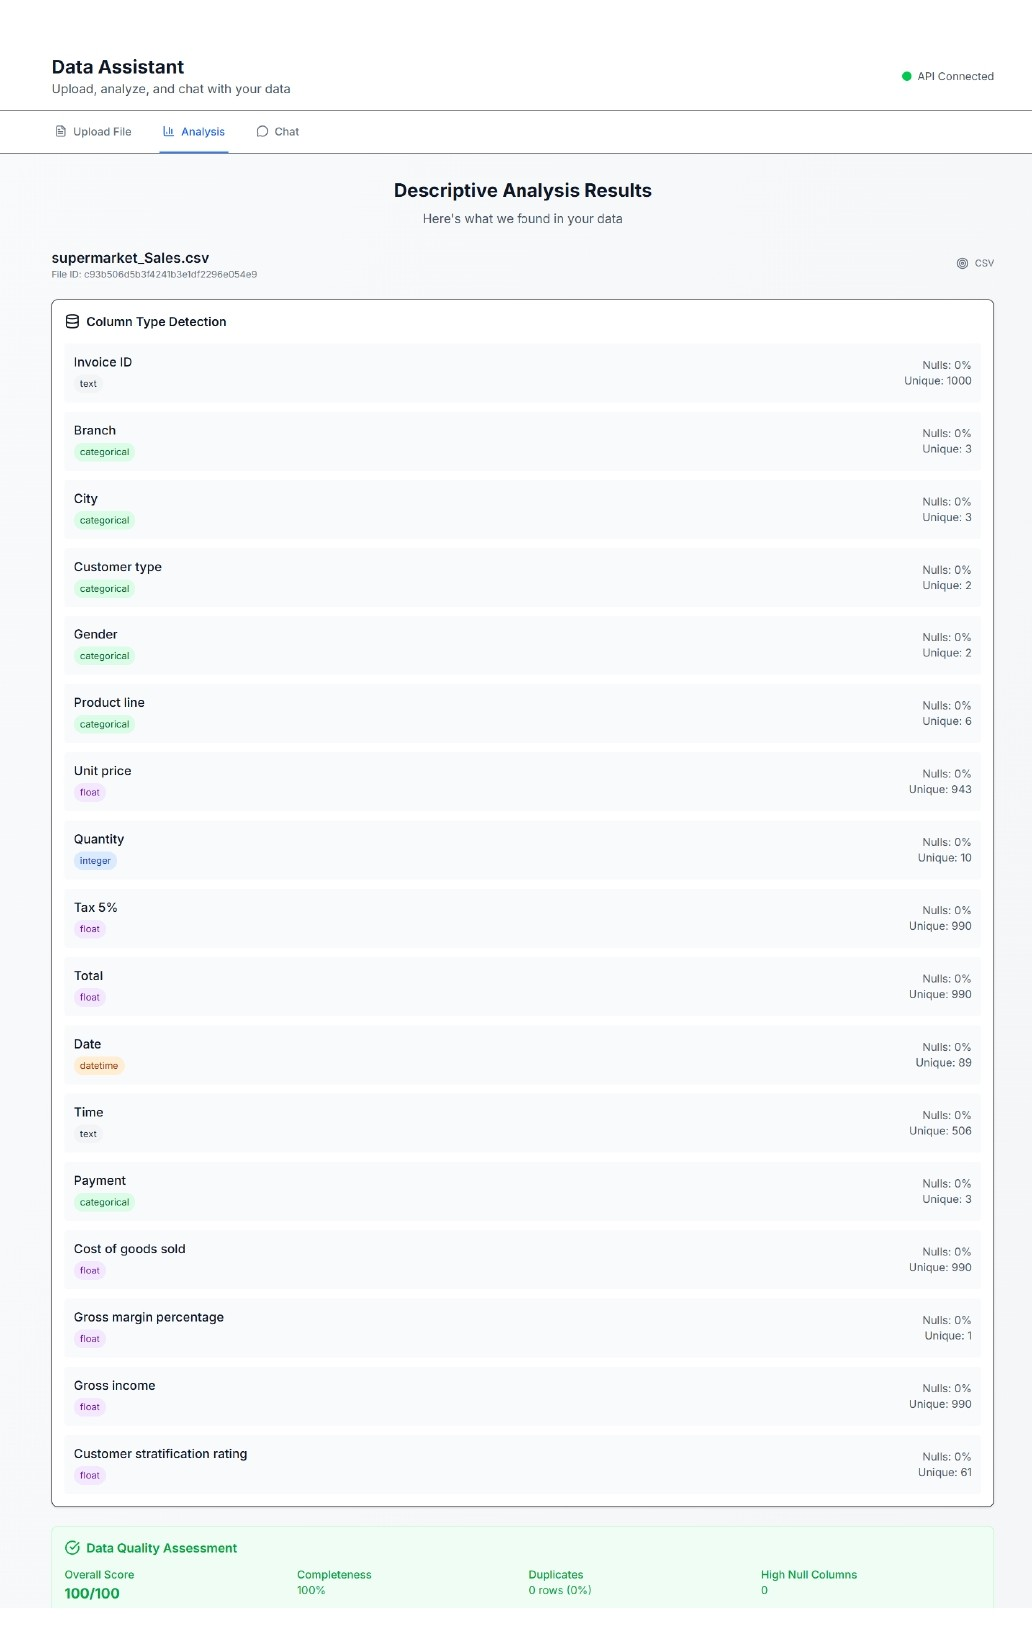
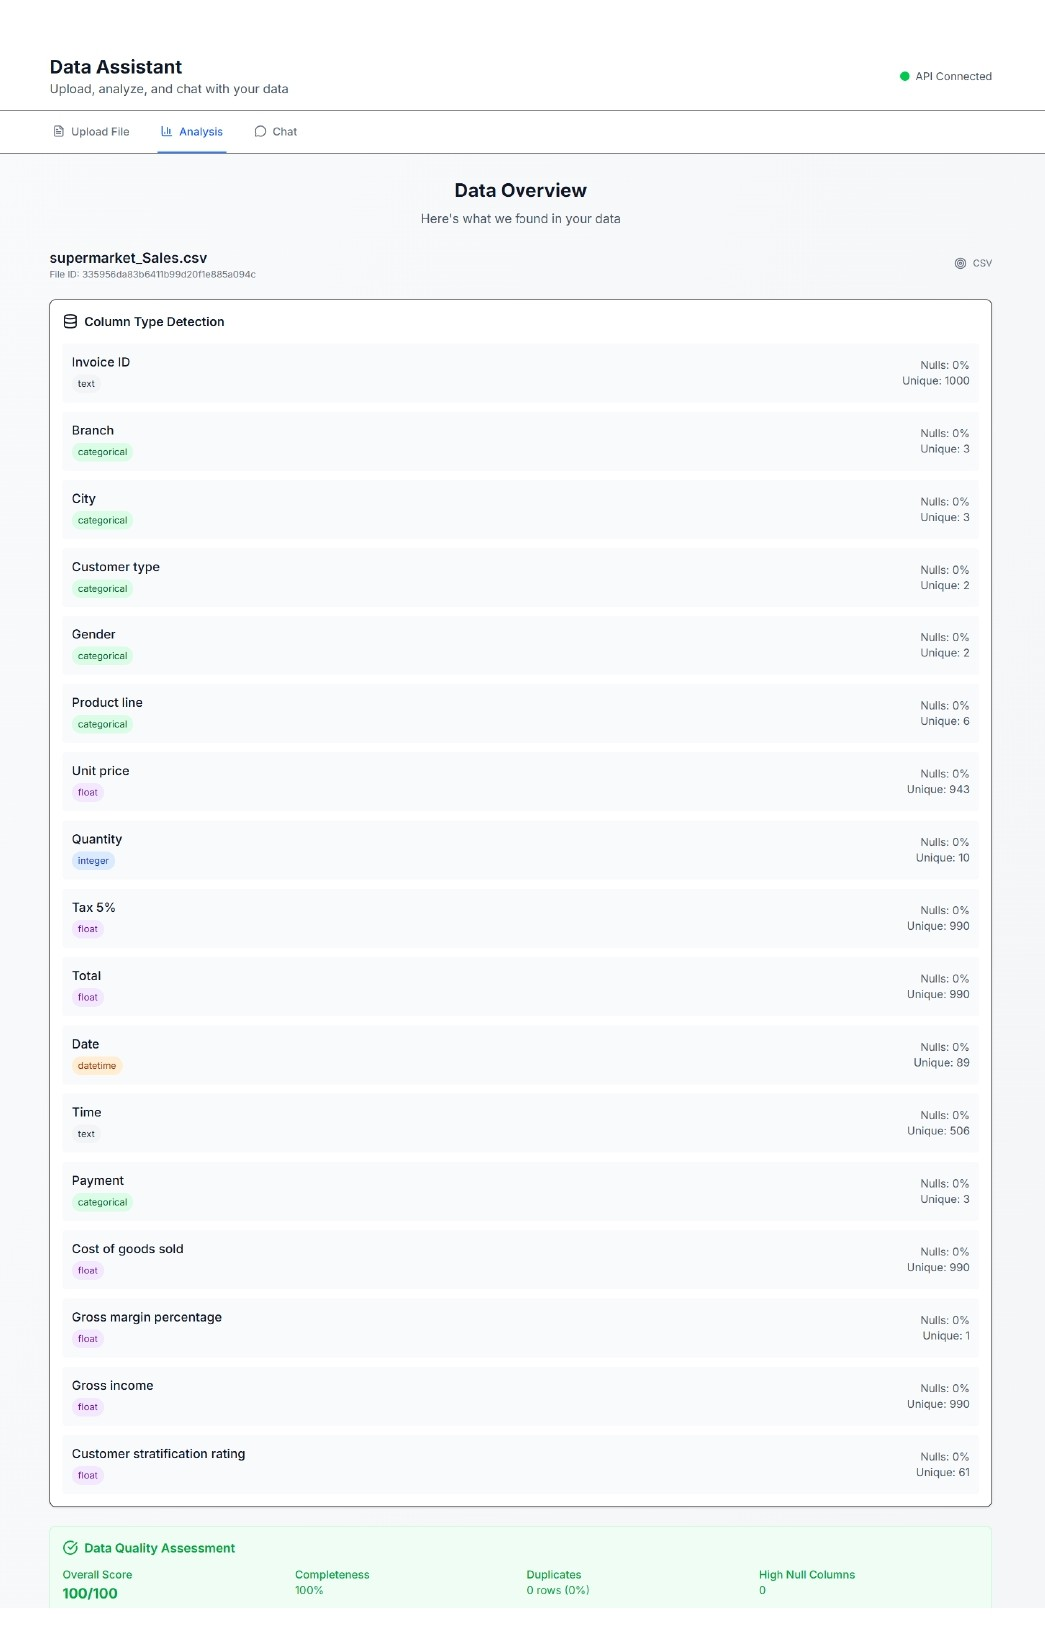
update image result

diff --git a/frontend/src/app/page.tsx b/frontend/src/app/page.tsx
@@ -100,7 +100,7 @@ export default function Home() {
             className="space-y-6"
           >
             <div className="text-center">
-              <h2 className="text-2xl font-bold text-gray-900 mb-2">Descriptive Analysis Results</h2>
+              <h2 className="text-2xl font-bold text-gray-900 mb-2">Data Overview</h2>
               <p className="text-gray-600">Here's what we found in your data</p>
             </div>
             <DataVisualization fileData={uploadedFile} />

diff --git a/README.md b/README.md
@@ -10,18 +10,19 @@ Upload a file → get **automatic summaries**, **data quality checks**, **chart 
 ## 🖼 Screenshots & Demo
 
 ### 🤖 AI Chat Assistant
+
 <div align="center">
   <img src="Result and Example_dataset/Result/chat-assistData.png" 
        alt="AI Chat Assistant Interface" 
        width="500">
 </div>
 
-### 📊 CSV Descriptive Results
+### 📊 CSV Data Overview
 
 <div align="center">
 
-| | |
-|:---:|:---:|
+|                                                                                                          |                                                                                                          |
+| :------------------------------------------------------------------------------------------------------: | :------------------------------------------------------------------------------------------------------: |
 | <img src="Result and Example_dataset/Result/descriptive-result-csv1.jpg" alt="CSV Result 1" width="400"> | <img src="Result and Example_dataset/Result/descriptive-result-csv2.jpg" alt="CSV Result 2" width="400"> |
 
 </div>
@@ -33,6 +34,7 @@ Upload a file → get **automatic summaries**, **data quality checks**, **chart 
 </div>
 
 ### 📁 Upload Interface
+
 <div align="center">
   <img src="Result and Example_dataset/Result/upload-data-page.png" 
        alt="Upload Data Interface" 
@@ -57,27 +59,32 @@ Upload a file → get **automatic summaries**, **data quality checks**, **chart 
 
 ## 🧠 Tech Stack & Roles
 
-- **Frontend**: **Next.js + Tailwind CSS** — UI for upload, summaries, charts, and chat  
-- **Charting**: **Recharts** — interactive charts from backend specs  
-- **Backend**: **FastAPI (Python)** — endpoints for upload, analysis, and chat  
-- **Tabular Data**: **Pandas + NumPy** — stats, null %, duplicates, dtypes  
-- **PDF**: **PyPDF2** — text & metadata extraction  
+- **Frontend**: **Next.js + Tailwind CSS** — UI for upload, summaries, charts, and chat
+- **Charting**: **Recharts** — interactive charts from backend specs
+- **Backend**: **FastAPI (Python)** — endpoints for upload, analysis, and chat
+- **Tabular Data**: **Pandas + NumPy** — stats, null %, duplicates, dtypes
+- **PDF**: **PyPDF2** — text & metadata extraction
 - **Excel**: **openpyxl/xlrd** — read xlsx/xls
 
 ### 🔎 RAG (Retrieval-Augmented Generation)
+
 A strategy to keep answers **relevant & document-grounded**:
-1) **Ingest** content/analysis → split into small **chunks**  
-2) **Embed** each chunk via `sentence-transformers/all-MiniLM-L6-v2` (384-dim vectors)  
-3) Retrieve **Top-K** similar chunks via **cosine similarity**  
-4) Ask **Gemini 1.5 Flash** to answer using those chunks as context
+
+1. **Ingest** content/analysis → split into small **chunks**
+2. **Embed** each chunk via `sentence-transformers/all-MiniLM-L6-v2` (384-dim vectors)
+3. Retrieve **Top-K** similar chunks via **cosine similarity**
+4. Ask **Gemini 1.5 Flash** to answer using those chunks as context
 
 ### 🧩 Embeddings — `all-MiniLM-L6-v2`
+
 Turns text into numerical vectors so we can measure **semantic similarity**.  
 Lightweight & fast — great for a server-side RAG prototype.
 
 ### 🤖 LLM — Gemini 1.5 Flash
+
 Used for:
-- **PDF summarization** → stored at `analysis_summary.ai_summary`  
+
+- **PDF summarization** → stored at `analysis_summary.ai_summary`
 - **Chat responses** → grounded with retrieved context
 
 ---
@@ -126,8 +133,9 @@ data-assistant/
 ## 🚀 Getting Started (Local Dev)
 
 ### ✅ Prerequisites
-- **Python 3.11+** (recommended)  
-- **Node.js 18+** & **npm**  
+
+- **Python 3.11+** (recommended)
+- **Node.js 18+** & **npm**
 - **Gemini API Key** (optional but recommended)
 
 ### 1) Backend (FastAPI)
@@ -135,6 +143,7 @@ data-assistant/
 **a) Create virtual env & install dependencies**
 
 > **Windows (PowerShell)**
+
 ```powershell
 cd backend
 py -3.11 -m venv .venv
@@ -144,6 +153,7 @@ pip install -r requirements.txt
 ```
 
 > **macOS/Linux**
+
 ```bash
 cd backend
 python3 -m venv .venv
@@ -171,6 +181,7 @@ ENVIRONMENT=development
 ```
 
 **c) Run the server**
+
 ```bash
 uvicorn app.main:app --reload --host 0.0.0.0 --port 8000
 ```
@@ -183,6 +194,7 @@ Swagger: `http://localhost:8000/docs`
 ### 2) Frontend (Next.js)
 
 **a) Install dependencies**
+
 ```bash
 cd frontend
 npm install
@@ -191,11 +203,13 @@ npm install
 ```
 
 **b) Configure `.env.local`**
+
 ```ini
 NEXT_PUBLIC_API_BASE_URL=http://localhost:8000
 ```
 
 **c) Run dev server**
+
 ```bash
 npm run dev
 ```
@@ -206,16 +220,18 @@ App: `http://localhost:3000`
 
 ## 🧪 Usage (Quick Flow)
 
-1) Open `http://localhost:3000`  
-2) Upload **PDF/CSV/Excel** → view **summary** & **chart suggestions**  
-3) Use **Chat** to ask questions about the document
+1. Open `http://localhost:3000`
+2. Upload **PDF/CSV/Excel** → view **summary** & **chart suggestions**
+3. Use **Chat** to ask questions about the document
 
 > API alternative:
-> - `POST /upload` — upload a file  
-> - `GET /file/{id}` — get detailed info (incl. `analysis_summary`)  
+>
+> - `POST /upload` — upload a file
+> - `GET /file/{id}` — get detailed info (incl. `analysis_summary`)
 > - `POST /chat` — RAG chat (`file_id` + `message`)
 
 Sample cURL upload:
+
 ```bash
 curl -X POST "http://localhost:8000/upload" \
   -H "accept: application/json" \
